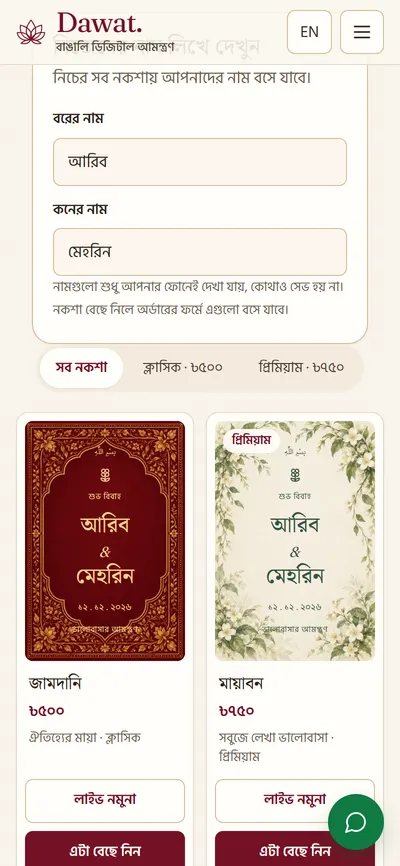
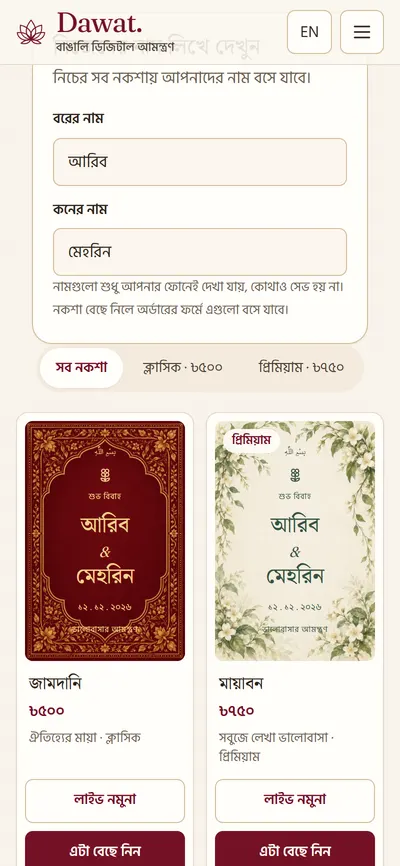
Speed up the home hero, add the live-sample preload and write the public-site QA report
Responsive hero and card artwork (lazy WebP srcset), standard backdrop-filter for the
solid header, and the QA report with before/after screenshots, measurements and what was
not verified.

Changed region(s): [[0.81, 0.9042, 0.96, 0.9977]]

diff --git a/web/src/components/storefront.tsx b/web/src/components/storefront.tsx
@@ -60,10 +60,16 @@ export function TemplateCard({
         aria-label={`${bn ? 'লাইভ নমুনা খুলুন' : 'Open live sample'} · ${label}`}
       >
         {template.art && (
-          <span
+          <img
             className={s.artBg}
-            style={{ backgroundImage: `url('${template.art}')` }}
-            aria-hidden="true"
+            src={template.art.replace('.webp', '-480.webp')}
+            srcSet={`${template.art.replace('.webp', '-480.webp')} 480w, ${template.art} 960w`}
+            sizes="(min-width: 1200px) 200px, (min-width: 768px) 30vw, 46vw"
+            width={960}
+            height={1440}
+            alt=""
+            loading={selected ? 'eager' : 'lazy'}
+            decoding="async"
           />
         )}
         {template.tier === 'premium' && <span className={s.tierBadge}>{packageName('premium', locale)}</span>}
@@ -394,6 +400,8 @@ export function StorefrontHome({ paymentPromise }: { paymentPromise?: PaymentRev
         <figure className={s.heroArt}>
           <img
             src="/brand/storefront-hero-match.webp"
+            srcSet="/brand/storefront-hero-match-900.webp 900w, /brand/storefront-hero-match.webp 1600w"
+            sizes="100vw"
             alt={t('জামদানি নকশার ডিজিটাল আমন্ত্রণের ছবি', 'A Jamdani-inspired digital invitation')}
             width="1600"
             height="900"

diff --git a/web/src/components/storefront-demo.tsx b/web/src/components/storefront-demo.tsx
@@ -1,5 +1,5 @@
 'use client';
-import { useEffect, useState } from 'react';
+import { useState } from 'react';
 import { ArrowLeft, ArrowRight } from 'lucide-react';
 import { InvitationEntry } from './invitation-entry';
 import { useProductLocale } from './production/product-locale';
@@ -30,11 +30,10 @@ function seedSample(templateId: TemplateId) {
 /** A full sample invitation with a working RSVP. Nothing is sent to any server. */
 export function DemoInvitation({ templateId }: { templateId: TemplateId }) {
   const { locale } = useProductLocale();
-  const [ready, setReady] = useState(false);
-  useEffect(() => {
-    seedSample(templateId);
-    setReady(true);
-  }, [templateId]);
+  // Runs once on the first client render, before the invitation reads its sample. The server skips it.
+  useState(() => {
+    if (typeof window !== 'undefined') seedSample(templateId);
+  });
   const t = (bn: string, en: string) => (locale === 'bn' ? bn : en);
   return (
     <>
@@ -52,7 +51,7 @@ export function DemoInvitation({ templateId }: { templateId: TemplateId }) {
           {t('এই নকশা বেছে নিন', 'Choose this design')} <ArrowRight size={16} aria-hidden="true" />
         </a>
       </div>
-      {ready ? <InvitationEntry /> : <div aria-busy="true" style={{ minHeight: '60vh' }} />}
+      <InvitationEntry />
     </>
   );
 }

diff --git a/web/src/components/storefront.module.css b/web/src/components/storefront.module.css
@@ -226,6 +226,12 @@
     background-color 0.25s,
     border-color 0.25s;
 }
+/* The build keeps only the -webkit- form above, so state the standard property again where it survives. */
+@supports (backdrop-filter: blur(2px)) {
+  .header:not([data-clear]) {
+    backdrop-filter: saturate(1.4) blur(12px);
+  }
+}
 /* Over the home hero the bar is see-through until the visitor scrolls. */
 .header[data-clear] {
   border-bottom-color: transparent;
@@ -611,8 +617,9 @@
 .artBg {
   position: absolute;
   inset: 0;
-  background-position: center;
-  background-size: cover;
+  width: 100%;
+  height: 100%;
+  object-fit: cover;
   transition: transform 0.7s ease-out;
 }
 .templateArt:hover .artBg {
@@ -1281,6 +1288,8 @@
     color: var(--ink);
   }
   .nav > a[aria-current='page'] {
+    border-radius: 0;
+    box-shadow: inset 0 -2px 0 var(--wine);
     color: var(--wine);
     font-weight: 600;
   }

diff --git a/web/src/app/demo/page.tsx b/web/src/app/demo/page.tsx
@@ -13,5 +13,11 @@ export const metadata: Metadata = {
 };
 
 export default async function Page({ searchParams }: { searchParams: Promise<{ template?: string }> }) {
-  return <DemoInvitation templateId={findTemplate((await searchParams).template).id} />;
+  const template = findTemplate((await searchParams).template);
+  return (
+    <>
+      {template.art && <link rel="preload" as="image" href={template.art} fetchPriority="high" />}
+      <DemoInvitation templateId={template.id} />
+    </>
+  );
 }

diff --git a/docs/qa/public-site-2026-10-28.md b/docs/qa/public-site-2026-10-28.md
@@ -1,0 +1,97 @@
+# Public site · QA report · 28 October 2026
+
+Branch `claude/public-site-2801ed`, based on `27537ae`. Plan: [production-plan-2026-10-28.md](../plans/production-plan-2026-10-28.md), step 5 plus the Bangla copy of the public pages. Nothing is pushed or deployed. Local QA only (`127.0.0.1:3102`, synthetic data).
+
+Screenshots live under the ignored `.artifacts/public-site-2026-10-28/`:
+
+- `before/` is `27537ae`, built and served the same way. `after/` is this branch. `after-en/` is the English toggle at 375px.
+- File names are `<page>-<width>.png`, for `home`, `templates`, `pricing`, `contact`, `policies` and `order`. `after/` also has `demo` and `menu-sheet-400.jpg` (the open mobile menu).
+- Links: [before home 375](../../.artifacts/public-site-2026-10-28/before/home-375.png), [after home 375](../../.artifacts/public-site-2026-10-28/after/home-375.png), [before home 1280](../../.artifacts/public-site-2026-10-28/before/home-1280.png), [after home 1280](../../.artifacts/public-site-2026-10-28/after/home-1280.png), [mobile menu](../../.artifacts/public-site-2026-10-28/after/menu-sheet-400.jpg).
+- Measurements: `overflow-after.txt`, `perf-after.txt`, `a11y-after.txt`.
+
+## What changed
+
+**Names and copy**
+
+- `catalog.ts` has `packageNames` and `packageName(tier, locale)`: ক্লাসিক / প্রিমিয়াম / নিজের মতো and Classic / Premium / Custom. Ids (`normal`, `premium`, `custom`) and prices (৳500 / ৳750 / ৳1,500) are unchanged.
+- Home, templates, pricing, contact, policies, `order/page.tsx`, header and footer are rewritten in plain colloquial Bangla, following 4.2 and the 4.3 glossary. A `rg` for the old words (কর্মপরিসর, প্রবেশাধিকার, যাচাইকরণ, অপেক্ষমাণ, হালনাগাদ, সম্পাদনা, নির্ধারিত, অন্তর্ভুক্ত, বিক্রেতা, কোটেশন, Normal, Customized) over the public files finds nothing. A test guards the policies page.
+- Policies: no mixed-language sentences. Section anchors are `#terms`, `#pricing`, `#refund`, `#privacy`, `#sharing`, and the footer links to them. Decision G is added as one line: guest phone/email is kept only to send the invitation, is never shown on the guest page, and is deleted 30 days after the wedding term ends.
+- FAQ has 7 questions. Sending to guests now says: one-tap WhatsApp from the host's own WhatsApp, automatic email when the host adds a guest email, and no fully automatic WhatsApp.
+
+**Header, footer, trust**
+
+- Header (5.1): sticky, 64/72px. It is transparent over the home hero and turns cream with blur after 8px of scroll.
+  - Four links, language toggle, login, and the "নকশা বেছে নিন" button. The current page gets an underline.
+  - On phones the menu is a bottom sheet with a focus trap, Esc to close, a backdrop, 52px links, WhatsApp and the main button. Focus returns to the menu button.
+  - The full-bleed hero is unchanged; the header now overlays it.
+- Footer (5.2): brand with WhatsApp and email, three link columns (designs, help, policies), a bKash row with "every payment is checked by a person", "বাংলাদেশে তৈরি", and a Facebook slot that is hidden while empty.
+- Trust (5.3):
+  - **Live sample:** new page `/demo/?template=<id>`. It is the real guest invitation with a working RSVP. Replies stay in the visitor's own browser and go to no server, the same sample store the old demo used. It is linked from the hero and from every template card ("লাইভ নমুনা").
+  - **How it works:** 4 steps with phone-framed screenshots (`public/brand/steps/`, 400w/800w WebP).
+  - **Promise block:** three promises, plus the payment-review line from config.
+  - **Reviews and founder:** `Reviews` and `FounderNote` render nothing until `social-proof.ts` has real data. A review must carry `permission: true`.
+  - **FAQ:** accordion, one open at a time.
+- Interactive (5.4):
+  - "নিজেদের নাম লিখে দেখুন" on `/templates/`. The names appear on every card live and are saved nowhere. The order link carries `?names=`.
+  - RSVP demo card on home.
+  - Subtle card hover: lift, shadow, and a slow artwork zoom.
+  - Scroll-filled step line.
+  - Reduced motion removes the transitions and animations, and the step line is simply full.
+- Images (5.5):
+  - Own artwork and app screens only. No stock images, so nothing was added to `public/licenses`.
+  - Card art is now a lazy `<img>` with a 480w and 960w `srcset`, and the hero has 900w and 1600w. The hero stays `fetchpriority=high`.
+  - I did not add the optional short loop video.
+
+**`?names=` contract for the app session.** One value: the two names joined with " & ", URL-encoded, each name at most 30 characters. `/order/` forwards it unchanged to `/order/requests/?template=…&names=…`. The app session should split on " & " and treat it as plain text. The same note is in the shared notes folder (`public-site-handover.md`).
+
+## Config values the owner should set
+
+| Where | Value | Effect |
+| --- | --- | --- |
+| Netlify env `PAYMENT_REVIEW_PROMISE_BN` | e.g. `সাধারণত একই দিনে যাচাই করি` | Shown on the home promise block, the pricing page and the payment FAQ answer. Empty means hidden. |
+| Netlify env `PAYMENT_REVIEW_PROMISE_EN` | e.g. `We usually check payments the same day` | Same, English. |
+| `web/src/features/production/social-proof.ts` | `reviews`, `founder` | Fill only with real, permitted entries. Until then both sections are absent. |
+| same file | `socialLinks.facebook` | Set only when a real page exists. It then appears in the footer. |
+
+Home and pricing are `force-dynamic`, so changing the env values needs only a restart or redeploy and no code change. No hard-coded hour or number is promised anywhere.
+
+## Checks
+
+- `npx tsc --noEmit -p .` is clean.
+- `npx vitest run --maxWorkers=1`: 46 files, 364 tests pass (16 are new: names helpers, catalog names, header sheet and focus trap, nav links, footer, promise, empty reviews and founder, FAQ wording, RSVP demo saves nothing, names on cards, policies wording).
+- `npm run qa:build` passes.
+- No horizontal scroll on any changed page at 375px or 1280px (`overflow-after.txt`), and none in English at 375px.
+- Contrast, taken from computed colours (`a11y-after.txt`): no real failures on text over solid backgrounds.
+  - The skip link reads as low contrast only because it is off-screen until focused.
+  - The text inside the template thumbnails and the guest invitation sits on artwork. The tool could not measure it, so it was not counted.
+  - Tap targets are 44px or more, except one inline text link in a sentence.
+- LCP and CLS under simulated mobile, with 4x CPU slowdown and a 1.6 Mbps, 150 ms connection. This is **not Lighthouse** (see below):
+
+| Page | LCP | CLS |
+| --- | --- | --- |
+| home | 1.76 s | 0.0006 |
+| templates | 0.97 s | 0.055 |
+| pricing | 1.05 s | 0.026 |
+| contact | 0.94 s | 0.015 |
+| policies | 0.98 s | 0.007 |
+| order | 1.04 s | 0.028 |
+| demo | 4.2–4.8 s | 0.006 |
+
+  Home LCP was 5.3 s before the image work, because six full-size card images were competing with the hero.
+- Floating elements: the round WhatsApp button used to sit on top of the "এটা বেছে নিন" buttons on phones, so it now shows only from 1480px wide, in the page margin. WhatsApp is still in the mobile menu, the contact page, the footer and the closing banner.
+
+## What was not verified, and caveats
+
+- **Lighthouse was not run.** `npx lighthouse` was blocked by the permission classifier, and I did not work around it. The table above is a throttled `PerformanceObserver` read in Chrome. Please run real Lighthouse mobile before deploy.
+- **`/demo/` LCP is above 2.5 s.** The slow part is the guest invitation's own cover (its components are the app session's). The existing `/invite/?template=jamdani` measures 4.4 s the same way, so this is not a regression. A preload for the template art is already added.
+- **Step 3 and 4 screenshots are not host-side app screens.** Docker and local Supabase were not running, so the logged-in editor and guest list could not be captured with synthetic data. The old demo sandbox (`NEXT_PUBLIC_APP_MODE=demo`) is a different, older UI and would have misrepresented the product.
+  - Step 1 is the real templates page, step 2 the real order page, step 3 the sample invitation, and step 4 the guest's reply page. The step text and alt text describe exactly that, and the section says "ছবিগুলো আসল সাইট থেকে নেওয়া। নাম আর তথ্য কাল্পনিক।".
+  - Retake steps 3 and 4 from the host's editor and guest list once the app session lands and Supabase is up.
+- **The FAQ says email goes out automatically.** That is true only when the app session's email feature and `MAIL_*` env are live. If the owner deploys the public site first, hold the second paragraph of the "অতিথিদের কীভাবে পাঠাব?" answer back, or ship both together.
+- **Policies wording needs the owner's eye.**
+  - "No automated messaging" became "no fully automatic WhatsApp, you send in one tap" so it matches the new feature.
+  - The date line changed to "শেষ বদল: ২৮ অক্টোবর ২০২৬" because section 4 gained the 30-day line.
+  - The deletion itself is the app/server side of decision G and is not implemented here.
+- Keyboard use is covered by the unit test (focus trap, Esc, focus return) and native elements (links, buttons, `<details>`), not by a screen reader or a real-device pass. The English toggle was checked for overflow only, not read through.
+- The `src/features/production/share.ts` and `copy.ts` copy, `manual-payment.tsx`, `login.tsx` and `sales-desk.tsx` were not touched. `login.tsx` and `sales-desk.tsx` still hard-code "Customized" and should read `packageName()` from the catalog.
+- **I stopped another session's preview server.** Port 3102 is shared. After a rebuild of mine, a `next start` that was not mine (started 02:07, not from this worktree) held the port, and I stopped it before noticing. If someone's preview vanished around then, that was me. I freed the port again and left it free.
